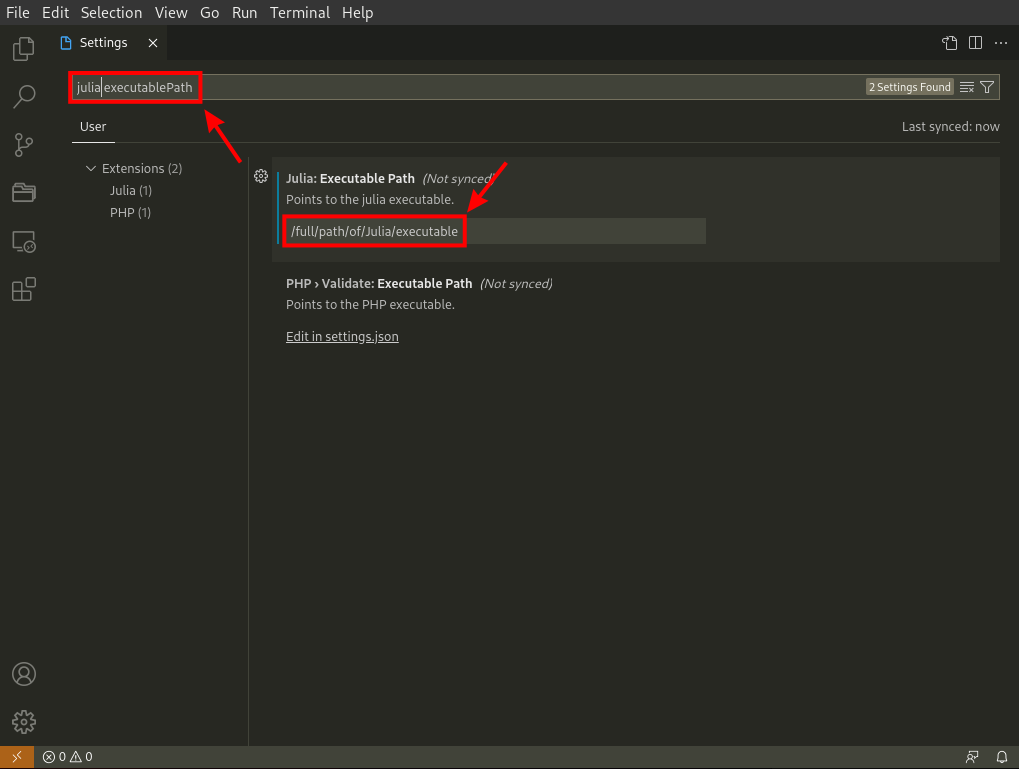
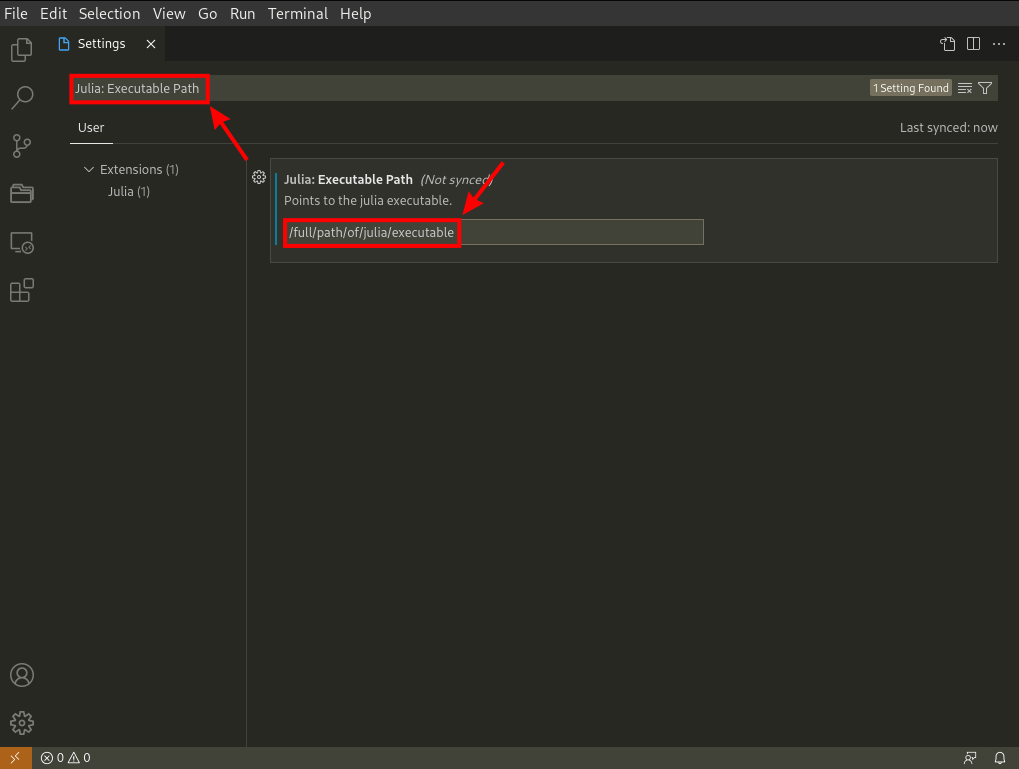
Updated description of julia vs code configuration

diff --git a/docs/src/installation/vscode.md b/docs/src/installation/vscode.md
@@ -42,9 +42,9 @@ The panel with the terminal and new Julia session should open.
     1. Open VS Code settings.
     ![](juliapath_1.png)
 
-    2. Find `Julia: Executable Path` by typing `julia executablePath` into the search bar.
+    2. Type `Julia: Executable Path` in the search box.
 
-    3. Set the `julia.executablePath` to the full path of Julia executable that the extension should use. The format of the path should follow your platform specific conventions.
+    3. Set the `Julia: Executable Path` to the full path of Julia executable that the extension should use. The format of the path should follow your platform specific conventions.
     ![](juliapath_2.png)
 
 There are other useful extensions. We recommend installing the `Project Manager` extension that provides additional features to manage projects.
